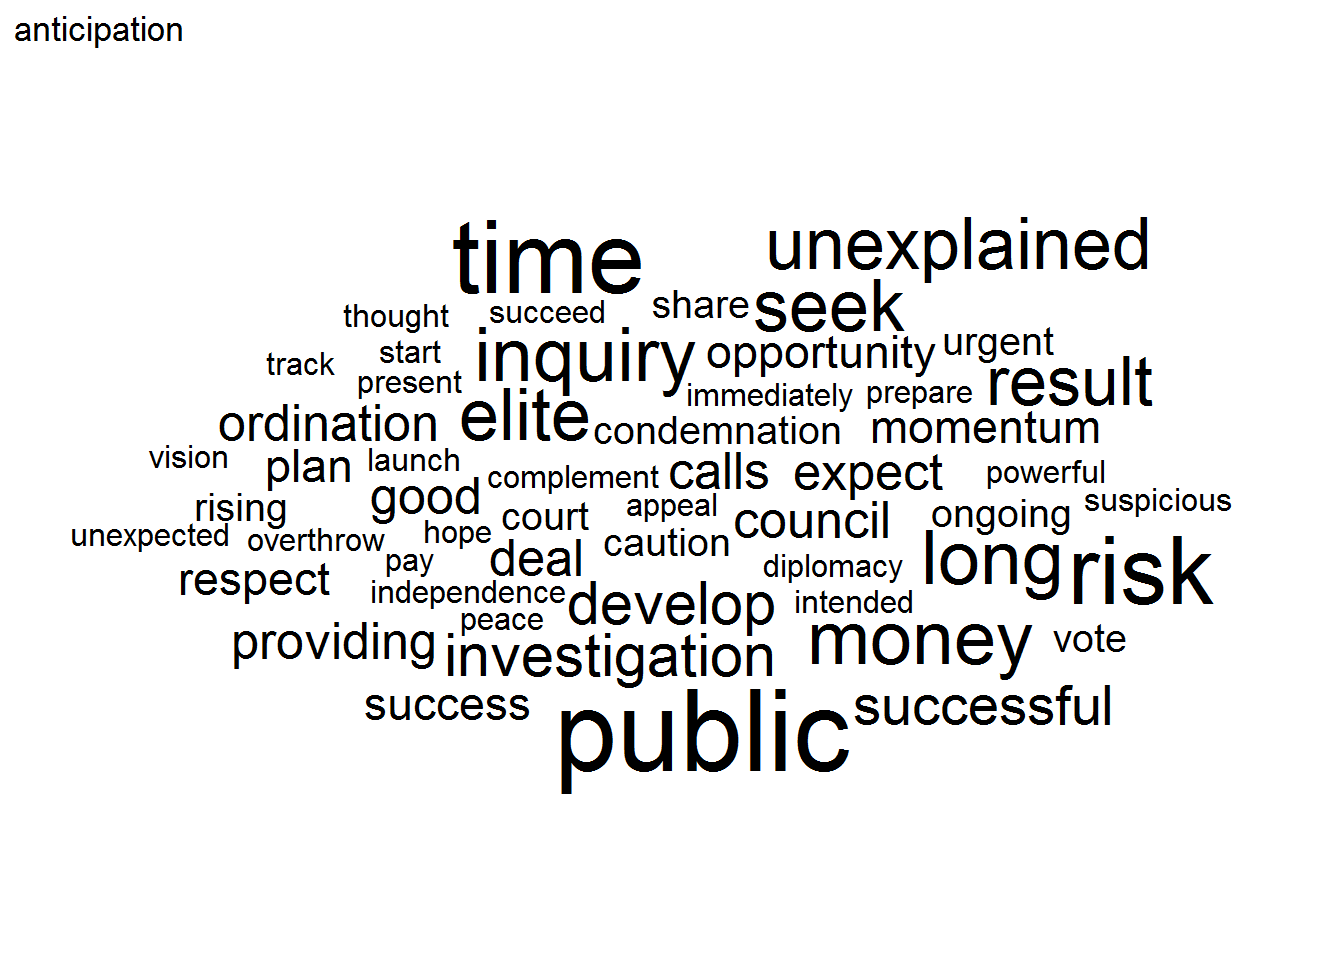
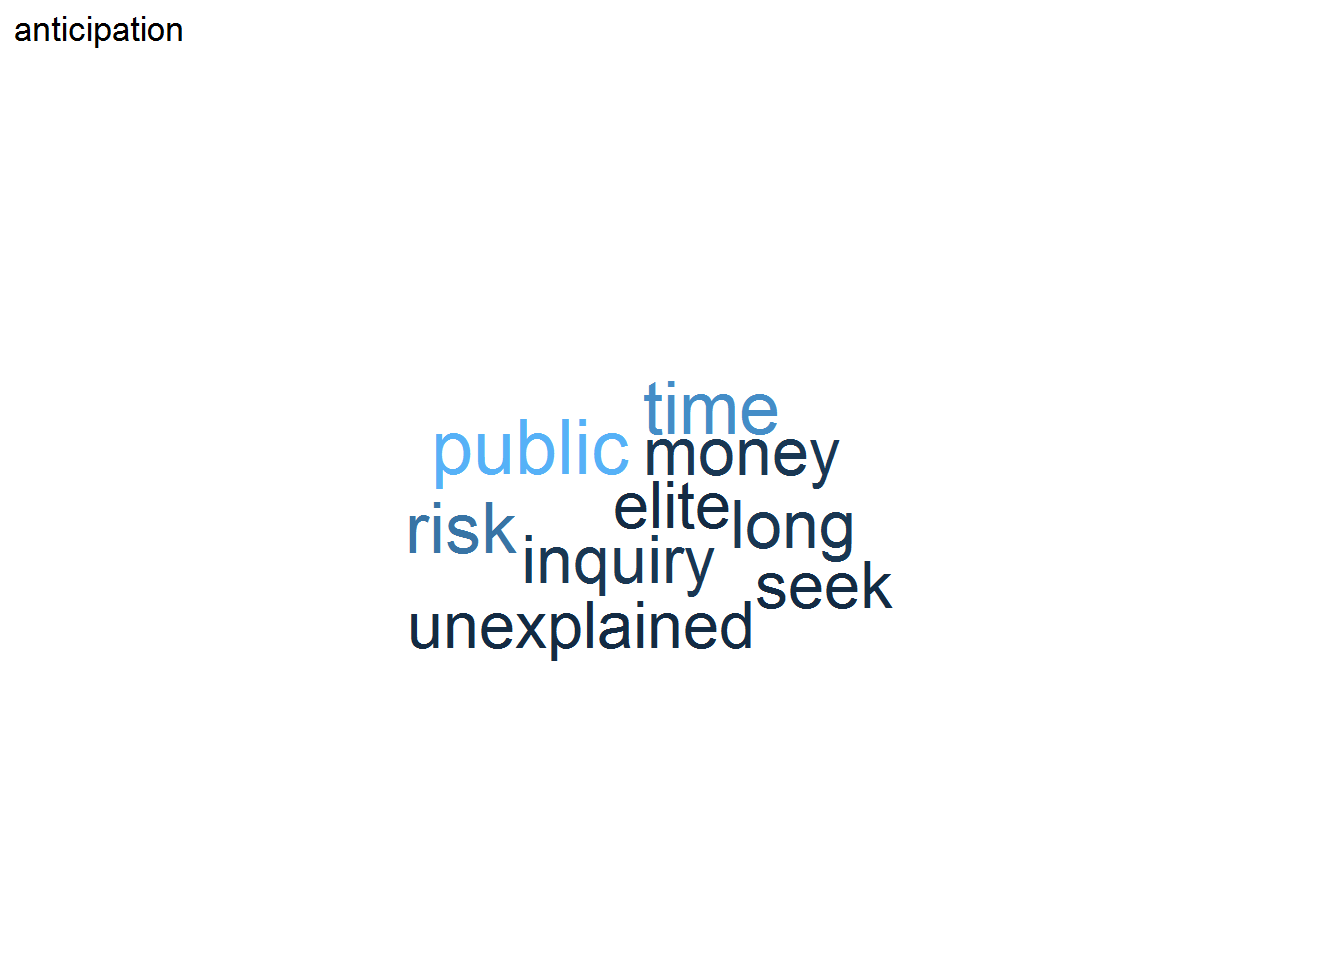
fiddled with clouds

Changed region(s): [[0.0625, 0.2188, 0.9375, 0.8438]]

diff --git a/index.html b/index.html
@@ -11,7 +11,7 @@
 
 <meta name="author" content="Andi Fugard (almost@gmail.com, @inductivestep)" />
 
-<meta name="date" content="2020-07-24" />
+<meta name="date" content="2020-07-25" />
 
 <title>Analysing the Russia Report</title>
 
@@ -256,7 +256,7 @@ div.tocify {
 
 <h1 class="title toc-ignore">Analysing the Russia Report</h1>
 <h4 class="author">Andi Fugard (<a href="mailto:almost@gmail.com" class="email">almost@gmail.com</a>, @<a href="https://twitter.com/InductiveStep">inductivestep</a>)</h4>
-<h4 class="date">24 July 2020</h4>
+<h4 class="date">25 July 2020</h4>
 
 </div>
 
@@ -508,8 +508,8 @@ rr_sentences %&gt;%
   kable()</code></pre>
 <table>
 <colgroup>
-<col width="2%" />
-<col width="97%" />
+<col width="1%" />
+<col width="98%" />
 </colgroup>
 <thead>
 <tr class="header">
@@ -519,24 +519,24 @@ rr_sentences %&gt;%
 </thead>
 <tbody>
 <tr class="odd">
-<td align="right">9</td>
-<td align="left">1 There is, of course, also a long history of hostile engagement between the Russian – and previously Soviet – intelligence services and their UK counterparts.</td>
+<td align="right">30</td>
+<td align="left">SIS and GCHQ planned to change their operational effort against Russia still further – to <strong><em>% and </em></strong>% respectively by 2020.</td>
 </tr>
 <tr class="even">
-<td align="right">41</td>
-<td align="left">128 Oral evidence – MI5, *** January 2019.</td>
+<td align="right">43</td>
+<td align="left">It is important to include local authorities ***.</td>
 </tr>
 <tr class="odd">
-<td align="right">45</td>
-<td align="left">In terms of its ‘near abroad’, Russia clearly intends keeping these countries within its ‘sphere of influence’, and conducts cyber activity and pursues economic policy to that end in ***.</td>
+<td align="right">33</td>
+<td align="left">We have been informed that MI5 does, however, align its work on Russia with that of SIS and GCHQ in an agreed tri-Agency approach.</td>
 </tr>
 <tr class="even">
-<td align="right">32</td>
-<td align="left">However, we understand that no direct lessons have been drawn from CONTEST in drawing up and implementing the Strategy.</td>
+<td align="right">42</td>
+<td align="left">136 However, the NCA also underlined that there are several ways in which the Sanctions and Anti-Money Laundering Act 2018 is too restrictive.</td>
 </tr>
 <tr class="odd">
-<td align="right">20</td>
-<td align="left">49,50 ***.</td>
+<td align="right">30</td>
+<td align="left">The Foreign Secretary similarly recognised the importance of not ignoring other priorities: One of my concerns is that some of the short-term problems that Russia is causing us that we are having to address is actually crowding out thinking that we need to be doing on the longer-term changes to the international order, namely the rise of China.</td>
 </tr>
 </tbody>
 </table>
@@ -1704,9 +1704,9 @@ rr_sentiment &lt;- rr_sentiment %&gt;%
     filter(sentiment == theSentiment) %&gt;%
     group_by(word) %&gt;%
     count() %&gt;%
-    filter(n &gt;= 2) %&gt;%
-    ggplot(aes(label = word, size = n)) +
-    scale_size_area(max_size = 15) +
+    filter(n &gt;= 10) %&gt;%
+    ggplot(aes(label = word, size = log1p(n), col = log1p(n))) +
+    scale_size_area(max_size = 10) +
     geom_text_wordcloud() +
     theme_minimal() + 
     labs(title = theSentiment)
@@ -1786,17 +1786,17 @@ sentiment_counts </code></pre>
 <pre class="r"><code>rr_sentiment %&gt;%
   anti_join(stop_words) %&gt;%
   mutate(redacted = recode(redacted,
-                           `0` = &quot;No&quot;,
-                           `1` = &quot;Yes&quot;)) %&gt;%
+                           `0` = &quot;No redactions&quot;,
+                           `1` = &quot;One or more redactions&quot;)) %&gt;%
   group_by(redacted, word) %&gt;%
   summarise(n = n()) %&gt;%
   mutate(prop = n/sum(n)) %&gt;%
   filter(prop &gt; .002) %&gt;%
-  ggplot(aes(label = word, size = prop, color = redacted)) +
-    scale_size_area(max_size = 12) +
+  ggplot(aes(label = word, size = log1p(prop), color = redacted)) +
+    scale_size_area(max_size = 13) +
     geom_text_wordcloud() +
     theme_minimal() + 
-    facet_grid(rows = vars(redacted))</code></pre>
+    facet_grid(cols = vars(redacted))</code></pre>
 <p><img src="index_files/figure-html/unnamed-chunk-24-1.png" width="672" /></p>
 </div>
 
